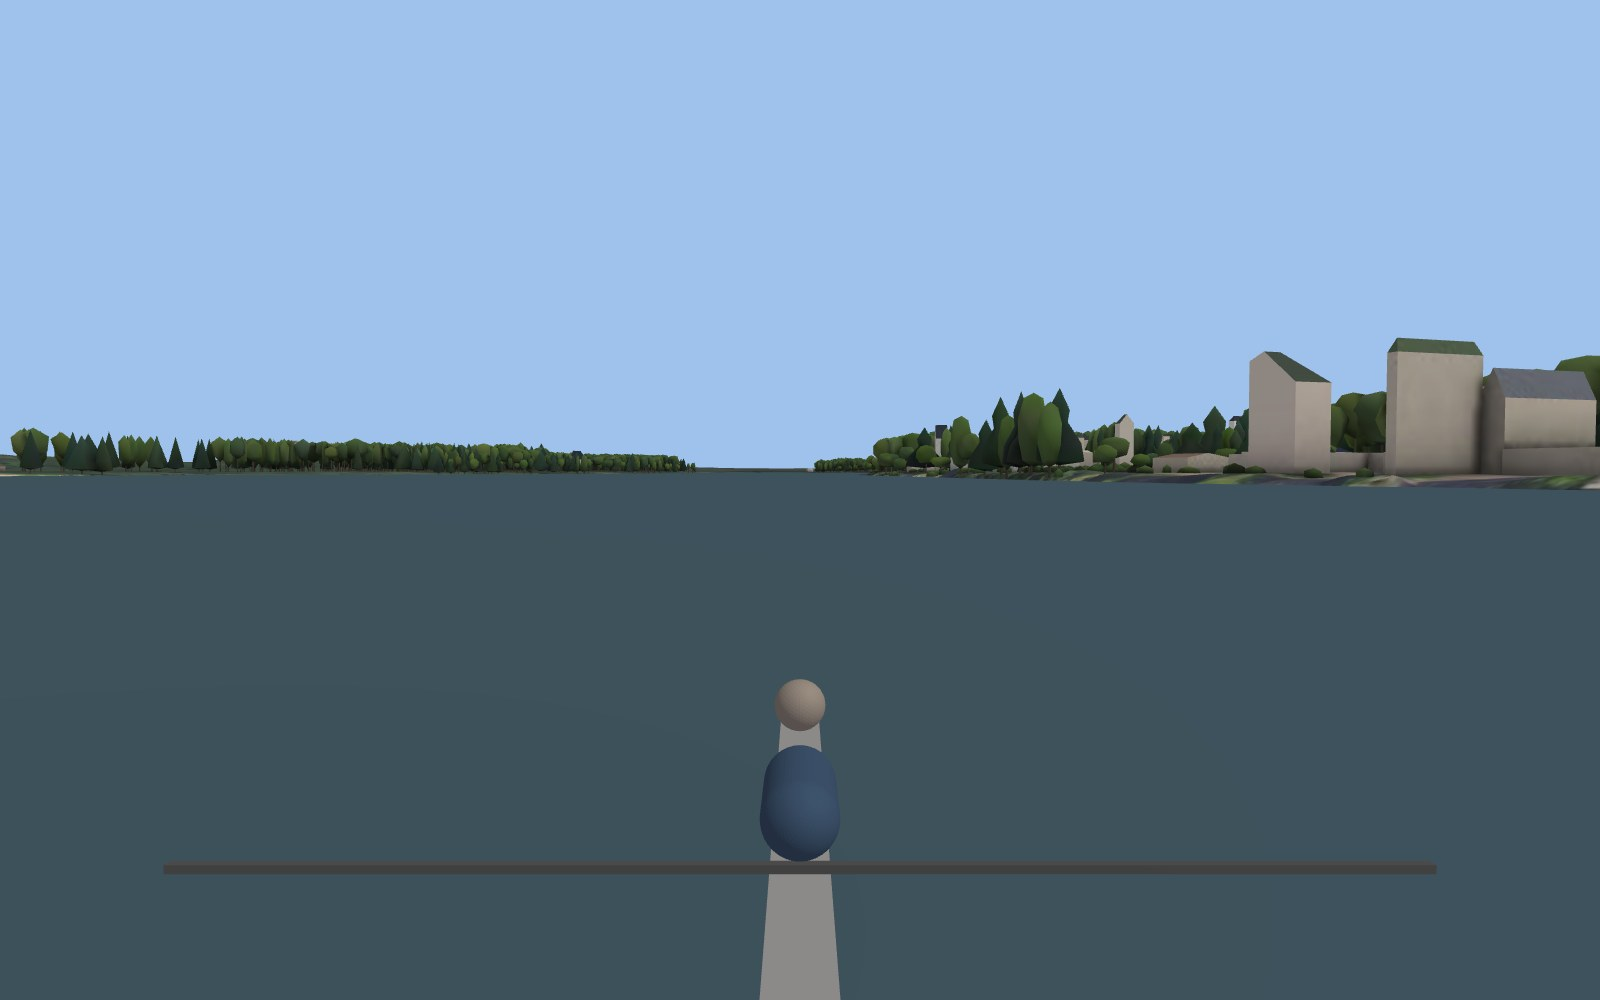
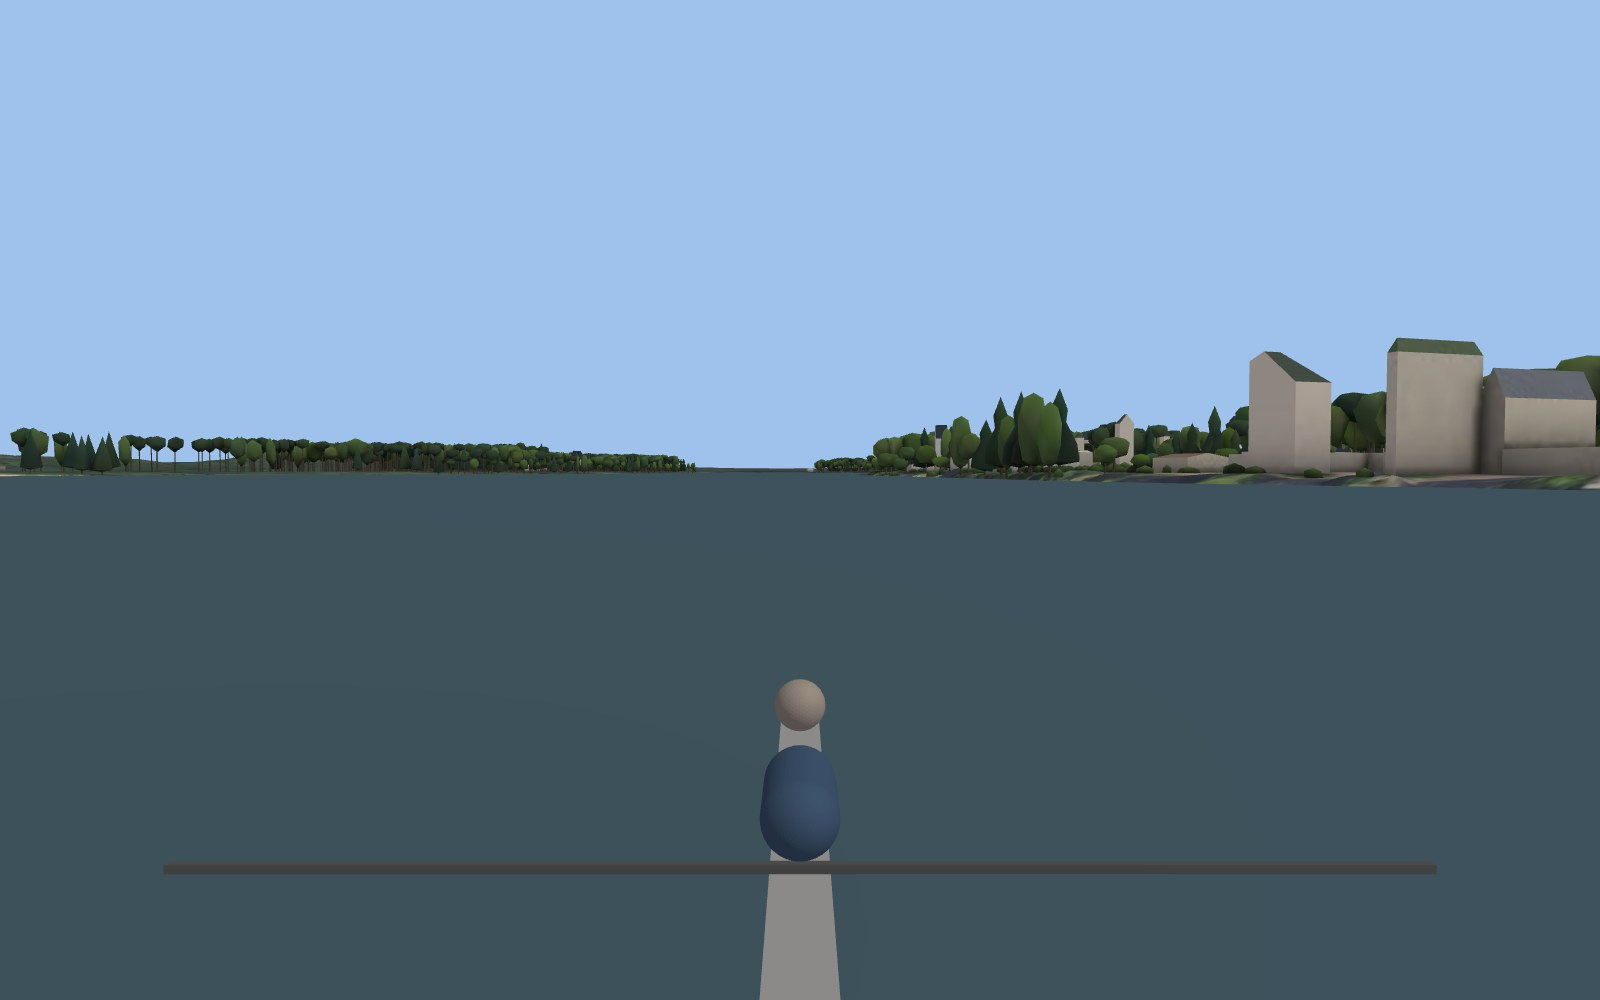
Bäume: Kiefern für Brandenburg (tree_mix pine), Grünau/Wannsee neu gerechnet
Claude-Session: https://claude.ai/code/session_01EN64LruVLhBQkAfe5N6bxC

Changed region(s): [[0.0, 0.434, 0.3438, 0.465], [0.7188, 0.403, 0.7812, 0.434], [0.6562, 0.403, 0.6875, 0.465]]

diff --git a/tools/coursebuilder/trees.py b/tools/coursebuilder/trees.py
@@ -75,8 +75,8 @@ ROUGH_MIN = 0.30  # m, mittlere Rauigkeit einer Krone (Fahrzeuge, Zelte, Kioske 
 HALO = 30.0
 
 # Arten
-DECID, CONIFER, POPLAR, BUSH = 0, 1, 2, 3
-KIND_NAMES = {DECID: "Laubbaum", CONIFER: "Nadelbaum", POPLAR: "Pappel", BUSH: "Busch"}
+DECID, CONIFER, POPLAR, BUSH, PINE = 0, 1, 2, 3, 4
+KIND_NAMES = {DECID: "Laubbaum", CONIFER: "Nadelbaum", POPLAR: "Pappel", BUSH: "Busch", PINE: "Kiefer"}
 
 LEVELS = {
     # near_m: volle Form; mid_m: einfache Form; bush_m: Büsche; budget: Dreiecke (Gebietsdatei "trees_budget")
@@ -119,6 +119,7 @@ DECID_COLS = np.array([(0.33, 0.45, 0.18), (0.29, 0.42, 0.17), (0.36, 0.48, 0.20
                        (0.39, 0.47, 0.17), (0.25, 0.38, 0.22), (0.31, 0.44, 0.15)])
 CONIFER_COLS = np.array([(0.17, 0.29, 0.17), (0.15, 0.27, 0.20), (0.20, 0.31, 0.18), (0.18, 0.30, 0.22)])
 POPLAR_COLS = np.array([(0.31, 0.44, 0.17), (0.34, 0.46, 0.19)])
+PINE_COLS = np.array([(0.20, 0.31, 0.17), (0.23, 0.33, 0.18), (0.19, 0.30, 0.20)])  # Kiefer: dunkel, leicht oliv
 BUSH_COLS = np.array([(0.32, 0.45, 0.19), (0.28, 0.41, 0.18), (0.35, 0.46, 0.20)])
 TRUNK_COL = np.array([0.44, 0.38, 0.31])
 
@@ -456,7 +457,16 @@ def detect(ctx, only=None):
     return D
 
 
-def postprocess(D):
+def pine_mix(cfg):
+    """Gebietsoption "tree_mix": "pine" (Kiefernwald, z. B. Brandenburg) oder "alpine"; ohne Angabe: "pine" ausserhalb
+    der Schweiz (crs ≠ EPSG:2056)."""
+    mix = cfg.get("tree_mix")
+    if mix is None:
+        mix = "pine" if cfg.get("crs", "EPSG:2056") != "EPSG:2056" else "alpine"
+    return mix == "pine"
+
+
+def postprocess(D, cfg=None):
     """Säulenförmige Bäume ausserhalb des Waldes = Pappel. Im geschlossenen Wald zerlegt die Watershed grosse Kronen oft in schmale Stücke: dort keine Pappeln, und die
     Krone mindestens 0,2 × Höhe breit (sonst wirkt der Wald wie lauter Säulen)."""
     f = D["forest"] & (D["kind"] != BUSH)
@@ -470,6 +480,27 @@ def postprocess(D):
     # (Nadelbaum höchstens 0,15 × Höhe + 2 m, Laubbaum 0,35 × Höhe + 1,5 m), sonst stehen riesige Kegel am Ufer und ragen ins Bild (Stein am Rhein, 30 s)
     D["r"] = np.where(D["kind"] == CONIFER, np.minimum(D["r"], 0.15 * D["h"] + 2.0), D["r"])
     D["r"] = np.where(D["kind"] == DECID, np.minimum(D["r"], 0.35 * D["h"] + 1.5), D["r"])
+    if cfg is not None and pine_mix(cfg):
+        # Kiefernwald: schlanke hohe Kronen in waldartiger Dichte sind Kiefern, keine Pappeln. Pappel bleibt nur
+        # einzeln oder in Reihen (wenige Nachbarn); dichte Bestände ohne TLM-Wald erkennt die Nachbarzahl.
+        trees = D["kind"] != BUSH
+        P = np.column_stack([D["x"], D["y"]])
+        nb = np.zeros(len(P), int)
+        linear = np.zeros(len(P), bool)
+        ti = np.flatnonzero(trees)
+        if len(ti):
+            tr = cKDTree(P[ti])
+            for k, idx in enumerate(tr.query_ball_point(P[ti], 15.0)):
+                nb[ti[k]] = len(idx) - 1
+                if len(idx) >= 4:   # Reihe (Allee, Uferreihe): Nachbarn liegen fast auf einer Linie
+                    ev = np.linalg.eigvalsh(np.cov(P[ti[idx]].T))
+                    linear[ti[k]] = ev[0] < 0.08 * ev[1]
+        dense = ((nb >= 4) & ~linear) | D["forest"]
+        ratio = D["h"] / np.maximum(2 * D["r"], 0.1)
+        slim = trees & (ratio > 1.3) & (D["h"] > 10)
+        pine = dense & slim & np.isin(D["kind"], [POPLAR, CONIFER, DECID]) & ((D["kind"] != DECID) | (ratio > 1.8))
+        D["kind"] = np.where(pine, PINE, D["kind"]).astype(np.int8)
+        D["r"] = np.where(D["kind"] == PINE, np.clip(D["r"], 1.5, 0.15 * D["h"] + 2.5), D["r"])
     return D
 
 
@@ -728,6 +759,8 @@ def crown_rows(kind, form, variant):
         return np.array(CONE_ROWS[form], float)
     if kind == BUSH:
         return BUSH_ROWS
+    if kind == PINE:   # Kiefer: rundliche, oben flache Krone erst im oberen Drittel
+        return _broad(n)
     if kind == POPLAR:
         p = _round(n)
         p[:, 1] = np.sin(np.linspace(0, np.pi, n)) ** 0.8
@@ -759,7 +792,7 @@ def build_tree(D, i, form, trunk_sides, sink):
     if kind == BUSH:
         zb, zt = z - 0.25, z + h
     else:
-        cb = {DECID: (0.33, 0.30, 0.42)[variant], CONIFER: 0.08, POPLAR: 0.12}[kind]
+        cb = {DECID: (0.33, 0.30, 0.42)[variant], CONIFER: 0.08, POPLAR: 0.12, PINE: 0.64}[kind]
         cb = cb * (0.85 + 0.3 * rng.random())
         zb, zt = z + cb * h, z + h
     hc = zt - zb
@@ -876,7 +909,7 @@ def select(ctx, D, level, occ_v, occ_f, procs):
 
 def tree_albedo(D, i, rng):
     k = int(D["kind"][i])
-    pal = {DECID: DECID_COLS, CONIFER: CONIFER_COLS, POPLAR: POPLAR_COLS, BUSH: BUSH_COLS}[k]
+    pal = {DECID: DECID_COLS, CONIFER: CONIFER_COLS, POPLAR: POPLAR_COLS, BUSH: BUSH_COLS, PINE: PINE_COLS}[k]
     base = pal[int(D["seed"][i] // 7) % len(pal)].copy()
     photo = np.asarray(D["rgb"][i], float)
     exg = (2 * photo[1] - photo[0] - photo[2]) / max(photo.sum(), 1e-3)
@@ -1091,10 +1124,10 @@ def main():
     t0 = time.time()
     f = ctx.out / "detected.npz"
     if f.exists() and not args.redetect:
-        D = postprocess(dict(np.load(f)))
+        D = postprocess(dict(np.load(f)), ctx.cfg)
         print(f"Erkennung: {f} ({int((D['kind'] != BUSH).sum()):,} Bäume, {int((D['kind'] == BUSH).sum()):,} Büsche)")
     else:
-        D = postprocess(detect(ctx))
+        D = postprocess(detect(ctx), ctx.cfg)
     if args.detect_only:
         return
     init_warp()
